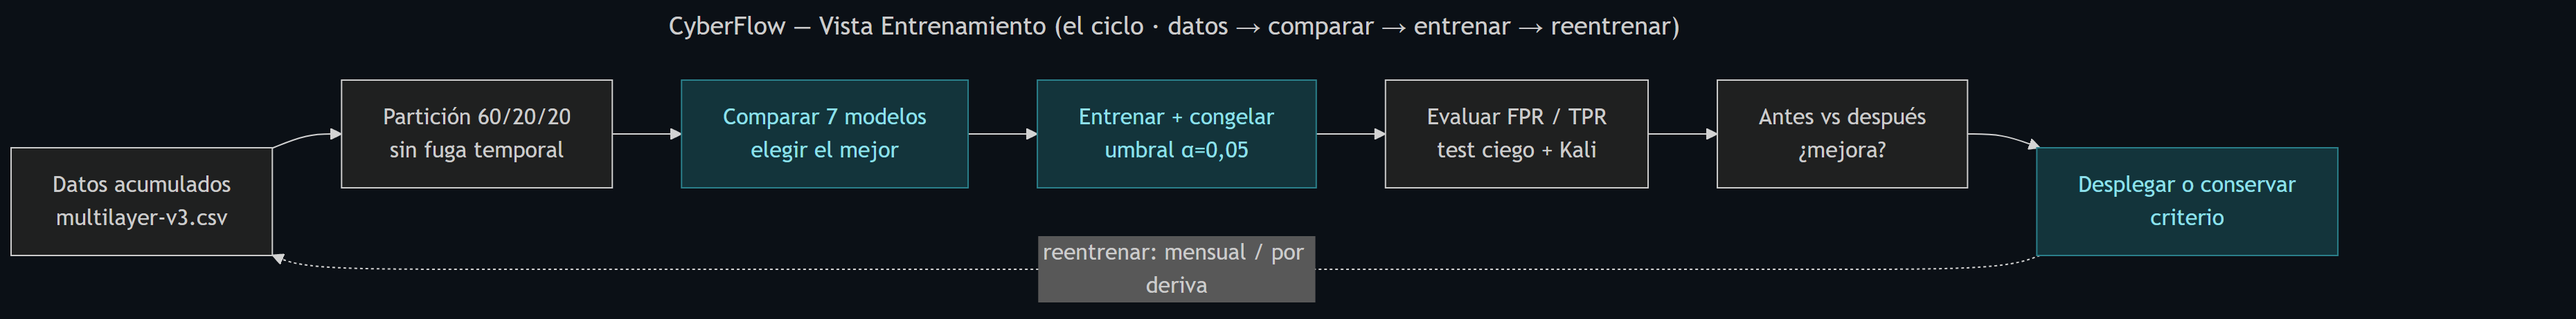
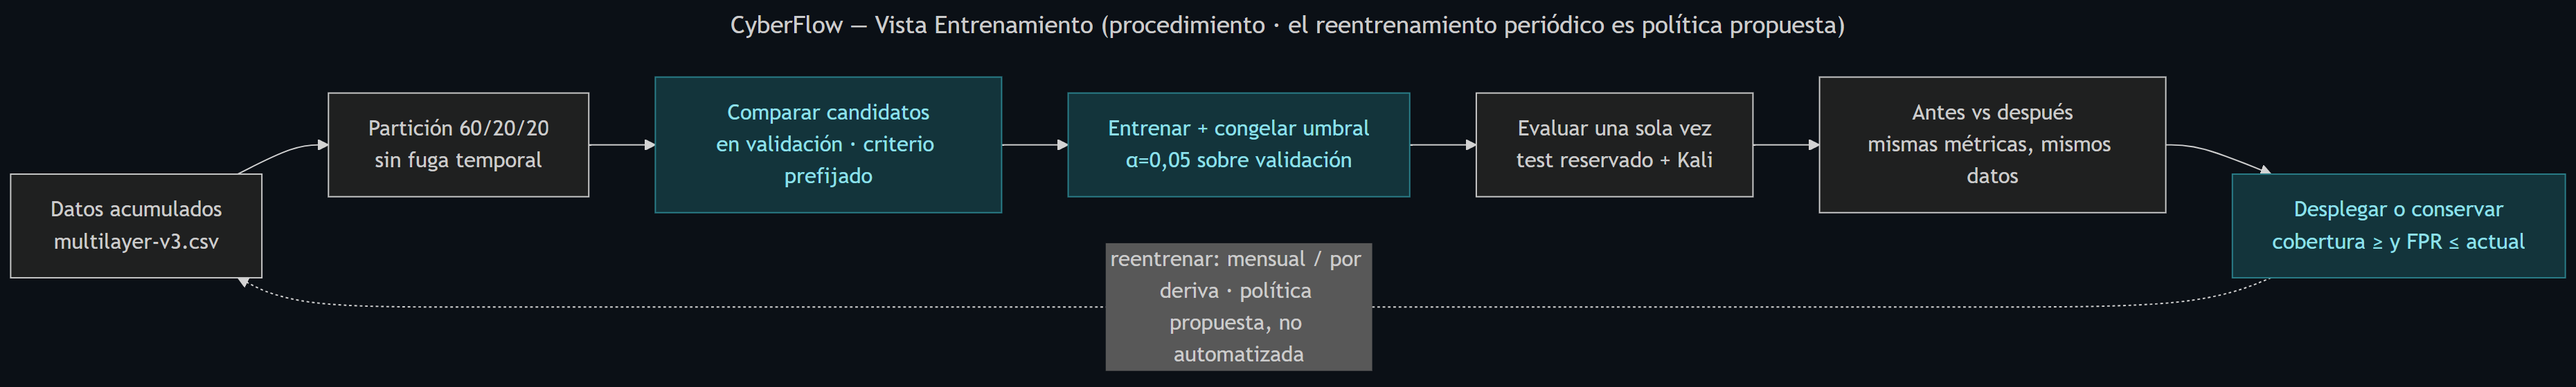
Diagramas: seleccion en validacion con criterio prefijado, test reservado y reentrenamiento como politica propuesta

diff --git a/02-metodologia/diagramas-vistas-gui/README.md b/02-metodologia/diagramas-vistas-gui/README.md
@@ -1,16 +1,29 @@
-# Vistas de la GUI de CyberFlow — en Mermaid
+# Vistas de CyberFlow — en Mermaid
 
-Réplica **1:1** de las tres vistas de topología del panel (`dashboard.py`,
-`TOPO_VISTAS`), en Mermaid editable. Fuente de verdad: los datasets `completa`,
-`metodologica` y `entrenamiento` del panel a fecha 2026-10-09.
+Las tres vistas de topología del panel (`dashboard.py`, `TOPO_VISTAS`), en Mermaid
+editable, **corregidas el 2026-10-09** tras la revisión de la documentación:
 
 - `01-operacional.mmd` — **Operacional**: cómo funciona en vivo (el camino del paquete).
 - `02-metodologica.mmd` — **Metodológica**: cómo se construyó (las 7 fases del método).
-- `03-entrenamiento.mmd` — **Entrenamiento**: el ciclo datos → comparar → entrenar → reentrenar.
+- `03-entrenamiento.mmd` — **Entrenamiento**: el procedimiento datos → selección →
+  entrenamiento → evaluación → decisión.
 
-Cada `.mmd` tiene su `.png` ya renderizado al lado. Convención de color (igual que la GUI):
-hosts en azul, **artefactos** (ficheros) como cilindros con borde punteado, **sumidero**
-en rojo, y acento teal para modelo/decisión/respuesta.
+Cada `.mmd` tiene su `.png` renderizado al lado. Este README se genera a partir de los
+`.mmd`: si se cambia un diagrama, se regenera. Convención de color: hosts en azul,
+**artefactos** como cilindros con borde punteado, **sumidero** en rojo y acento teal para
+modelo, decisión y respuesta.
+
+## Precisiones (no son decoración)
+
+- **Selección del modelo.** Los candidatos se comparan **en validación** con un criterio
+  **fijado antes** de mirar el test; el **test se reserva** para una sola evaluación final.
+  La comparación histórica de siete candidatos del laboratorio promovió el OCSVM **después**
+  de ver el test (sesgo declarado): el diagrama describe el procedimiento correcto, no aquel.
+- **Reentrenamiento mensual o por deriva = política propuesta.** No hay automatización
+  comprobada del reentrenamiento: lo automatizado es la **acumulación** de la línea base
+  (`cyberflow-acumular.timer`). El ciclo se ejecuta a mano, en seco, con el runbook, y solo
+  se despliega si mejora o iguala la cobertura sin empeorar el FPR.
+- **Variables.** El extractor v3 emite 31; el modelo consume **28** (contrato v2).
 
 ---
 
@@ -43,7 +56,7 @@ flowchart LR
     motor["Atribución de flujo<br/>SERVICIO"]
     variables["Variables / 10 s<br/>L2·L3·L4·L7"]
     descartes["Fuera del cálculo<br/>SUMIDERO"]
-    reentrenamiento["Reentrenamiento<br/>MENSUAL / POR DERIVA"]
+    reentrenamiento["Reentrenamiento<br/>POLÍTICA PROPUESTA · manual"]
     modelo["Modelo recalibrado<br/>IF · CALIBRADO"]
     heuristicos["Heurísticos<br/>DETERMINISTAS"]
   end
@@ -134,23 +147,23 @@ flowchart LR
 
 ---
 
-## 3 · Entrenamiento (el ciclo · reentrenamiento)
+## 3 · Entrenamiento (procedimiento)
 
 ```mermaid
 ---
-title: CyberFlow — Vista Entrenamiento (el ciclo · datos → comparar → entrenar → reentrenar)
+title: CyberFlow — Vista Entrenamiento (procedimiento · el reentrenamiento periódico es política propuesta)
 ---
 flowchart LR
   e_datos["Datos acumulados<br/>multilayer-v3.csv"]
   e_part["Partición 60/20/20<br/>sin fuga temporal"]
-  e_comp["Comparar 7 modelos<br/>elegir el mejor"]
-  e_train["Entrenar + congelar<br/>umbral α=0,05"]
-  e_eval["Evaluar FPR / TPR<br/>test ciego + Kali"]
-  e_antes["Antes vs después<br/>¿mejora?"]
-  e_dec["Desplegar o conservar<br/>criterio"]
+  e_comp["Comparar candidatos<br/>en validación · criterio prefijado"]
+  e_train["Entrenar + congelar umbral<br/>α=0,05 sobre validación"]
+  e_eval["Evaluar una sola vez<br/>test reservado + Kali"]
+  e_antes["Antes vs después<br/>mismas métricas, mismos datos"]
+  e_dec["Desplegar o conservar<br/>cobertura ≥ y FPR ≤ actual"]
 
   e_datos --> e_part --> e_comp --> e_train --> e_eval --> e_antes --> e_dec
-  e_dec -. "reentrenar: mensual / por deriva" .-> e_datos
+  e_dec -. "reentrenar: mensual / por deriva · política propuesta, no automatizada" .-> e_datos
 
   classDef accent fill:#13343b,stroke:#2a7f8a,color:#8fe0ea;
   class e_comp,e_train,e_dec accent;
